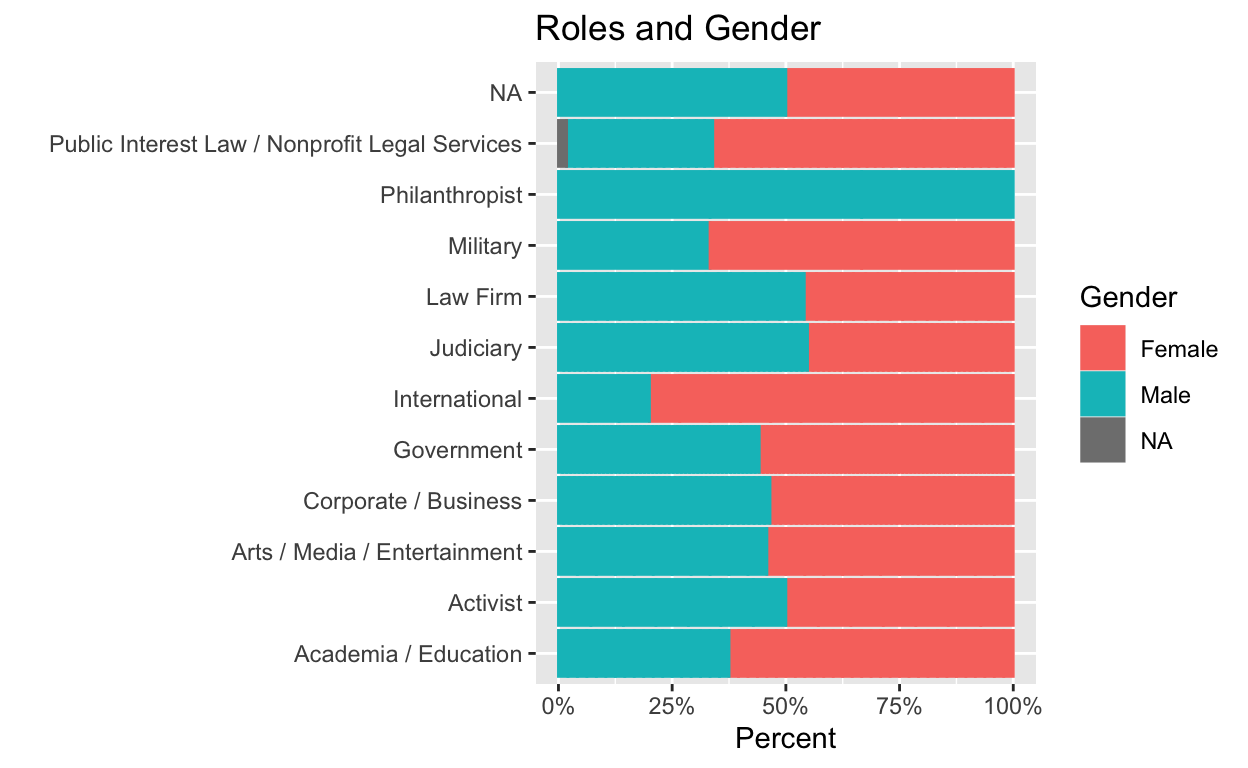
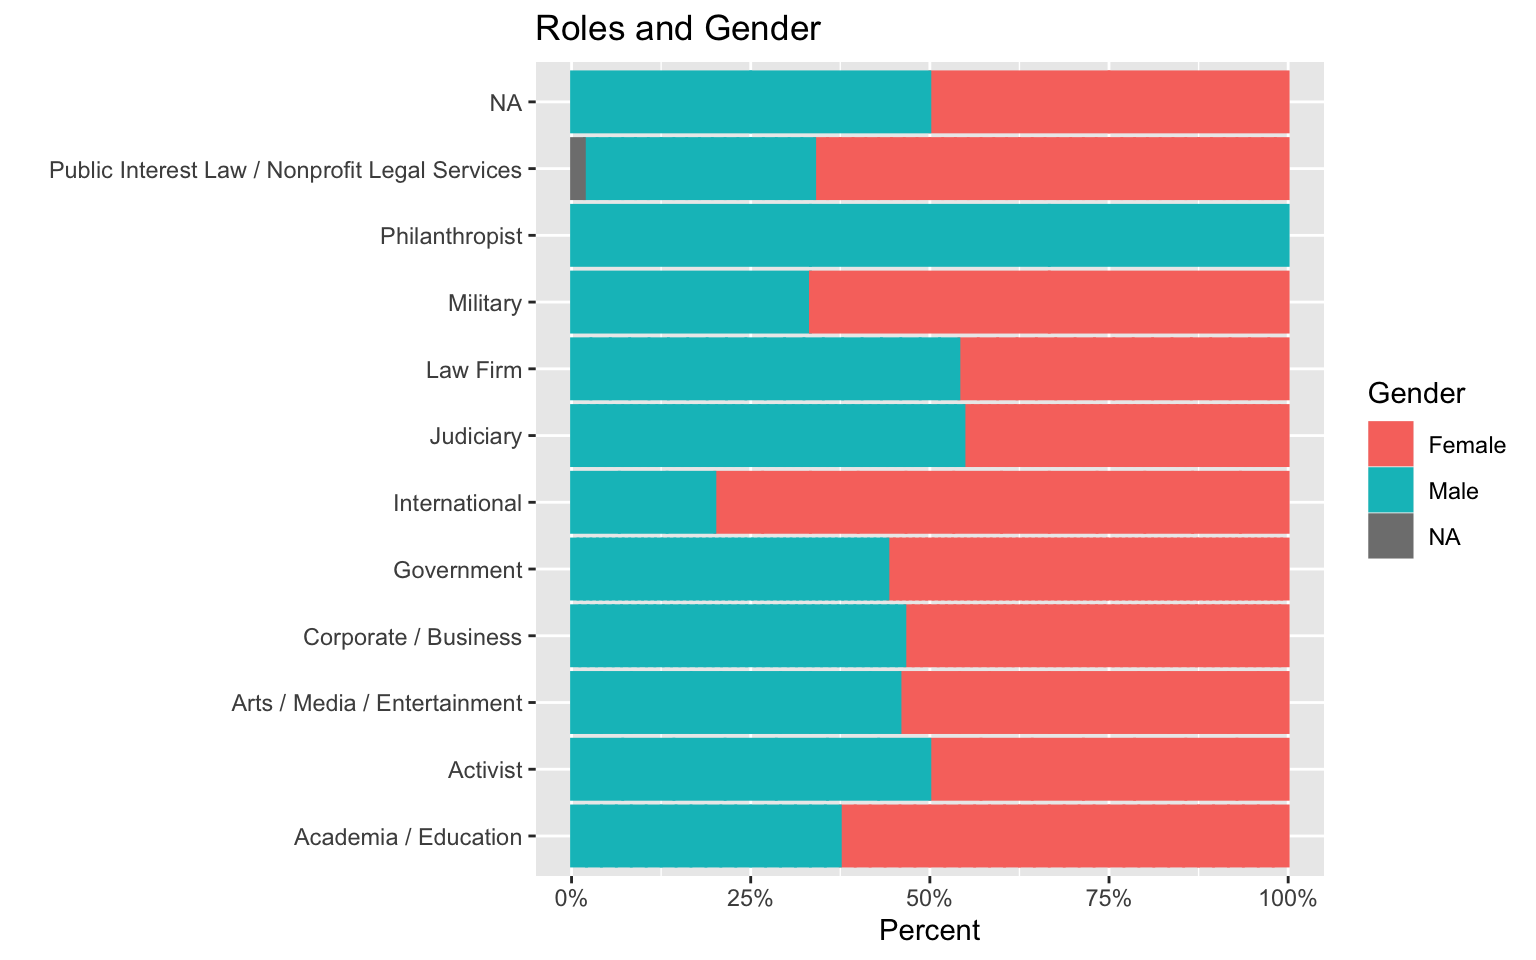
updated index file

Changed region(s): [[0.0312, 0.0, 1.0, 1.0]]

diff --git a/docs/index.html b/docs/index.html
@@ -2127,20 +2127,6 @@ Reports
 <p>The number of party members increased less than proportionally to the total number of entries, growing from 40 to 51, which may be due in part to the fact that I did not use Wikipedia as a source for all these entries. Democrats from a greater majority than they do last time. Several of the parties listed below are for foreign countries.</p>
 <div class="layout-chunk" data-layout="l-body">
 <p><img src="index_files/figure-html5/party-hist-1.png" width="624" /></p>
-<pre><code># A tibble: 51 x 8
-   name    degree   year   category       race    gender party country
-   &lt;chr&gt;   &lt;chr&gt;    &lt;chr&gt;  &lt;chr&gt;          &lt;chr&gt;   &lt;chr&gt;  &lt;chr&gt; &lt;chr&gt;  
- 1 Casper… LL.B.    1966   Corporate / B… White   Male   R     USA    
- 2 Kuehl,… J.D.     1978   Government     White   Female D     USA    
- 3 Estric… J.D.     1977   Government,La… White   Female D     USA    
- 4 Obama,… J.D.     1991   Government     Black … Male   D     USA    
- 5 Obama,… J.D.     1988   Government     Black   Female D     USA    
- 6 Sewell… J.D.     1992   Government     Black   Female D     USA    
- 7 Robins… LL.M.    1968   Government     White   Female Inde… Ireland
- 8 Nader,… LL.B.    1958   Government,Ac… White … Male   Gree… USA    
- 9 Hauser… attende… 1955-… Public Intere… White … Female R     USA    
-10 Lynch,… J.D.     1984   Government,Co… Black   Male   D     USA    
-# … with 41 more rows</code></pre>
 </div>
 <p>Men are the majority of politicians. Men now form a slightly greater majority among Democrats than in Phase 1.</p>
 <div class="layout-chunk" data-layout="l-body">
@@ -2153,23 +2139,23 @@ Reports
 <h1 id="roles">Roles</h1>
 <p>We made changes to how we defined roles in this Phase. We replaced the Politics category with Government, with includes both elected politicians and unelected officials, e.g. cabinent members. The category also includes members of organizations such as the U.N., though such also recieve the new role “International”. The category still excludes judges, who remain in a separate “Judiciary” category.</p>
 <p>“Public Interest Law” was rennamed to “Public Interest / Nonprofit Legal Services” and now includes those who practice law for the public interest and members of think tanks and other NGOS.</p>
-<p>Authors, musicians,journalists, and commentators have all been included into one new role, “Arts / Media / Entertainment.” Media executives also recieve this role, in addition to “Corporate/Business.”</p>
+<p>Authors, musicians, journalists, and commentators have all been included into one new role, “Arts / Media / Entertainment.” Media executives also recieve this role, in addition to “Corporate/Business.”</p>
 <p>Among all the entries, government is the most frequently occuring role, slightly over 30% of all roles. Corporate/Business is now as popular a role as Judges, a big increase in the former and decrease in the latter compared to Phase 1. Law Firm and Academia/Education remain smaller, but have increased more or less proportionally.</p>
-<div class="layout-chunk" data-layout="l-body">
-<p><img src="index_files/figure-html5/role-hists-1.png" width="624" /></p>
+<div class="layout-chunk" data-layout="l-body-outset">
+<p><img src="index_files/figure-html5/role-hists-1.png" width="768" /></p>
 </div>
 <p>In most roles women outnumber men, most so in Academia / Education and International. Among Law Firm, Judiciary, and Activist, men are slightly more or as many. Philanthropist is a small category which includes only men.</p>
-<div class="layout-chunk" data-layout="l-body">
-<p><img src="index_files/figure-html5/role-gender-1.png" width="624" /></p>
+<div class="layout-chunk" data-layout="l-body-outset">
+<p><img src="index_files/figure-html5/role-gender-1.png" width="768" /></p>
 </div>
-<div class="layout-chunk" data-layout="l-body">
-<p><img src="index_files/figure-html5/role-race-1.png" width="624" /><img src="index_files/figure-html5/role-race-2.png" width="624" /></p>
+<div class="layout-chunk" data-layout="l-body-outset">
+<p><img src="index_files/figure-html5/role-race-1.png" width="768" /></p>
 </div>
 <h1 id="degrees">Degrees</h1>
 <div class="layout-chunk" data-layout="l-body">
 <p><img src="index_files/figure-html5/degree-hist-1.png" width="624" /></p>
 </div>
-<div class="sourceCode" id="cb2"><pre class="sourceCode r distill-force-highlighting-css"><code class="sourceCode r"></code></pre></div>
+<div class="sourceCode" id="cb1"><pre class="sourceCode r distill-force-highlighting-css"><code class="sourceCode r"></code></pre></div>
 <!--radix_placeholder_article_footer-->
 <!--/radix_placeholder_article_footer-->
 </div>
